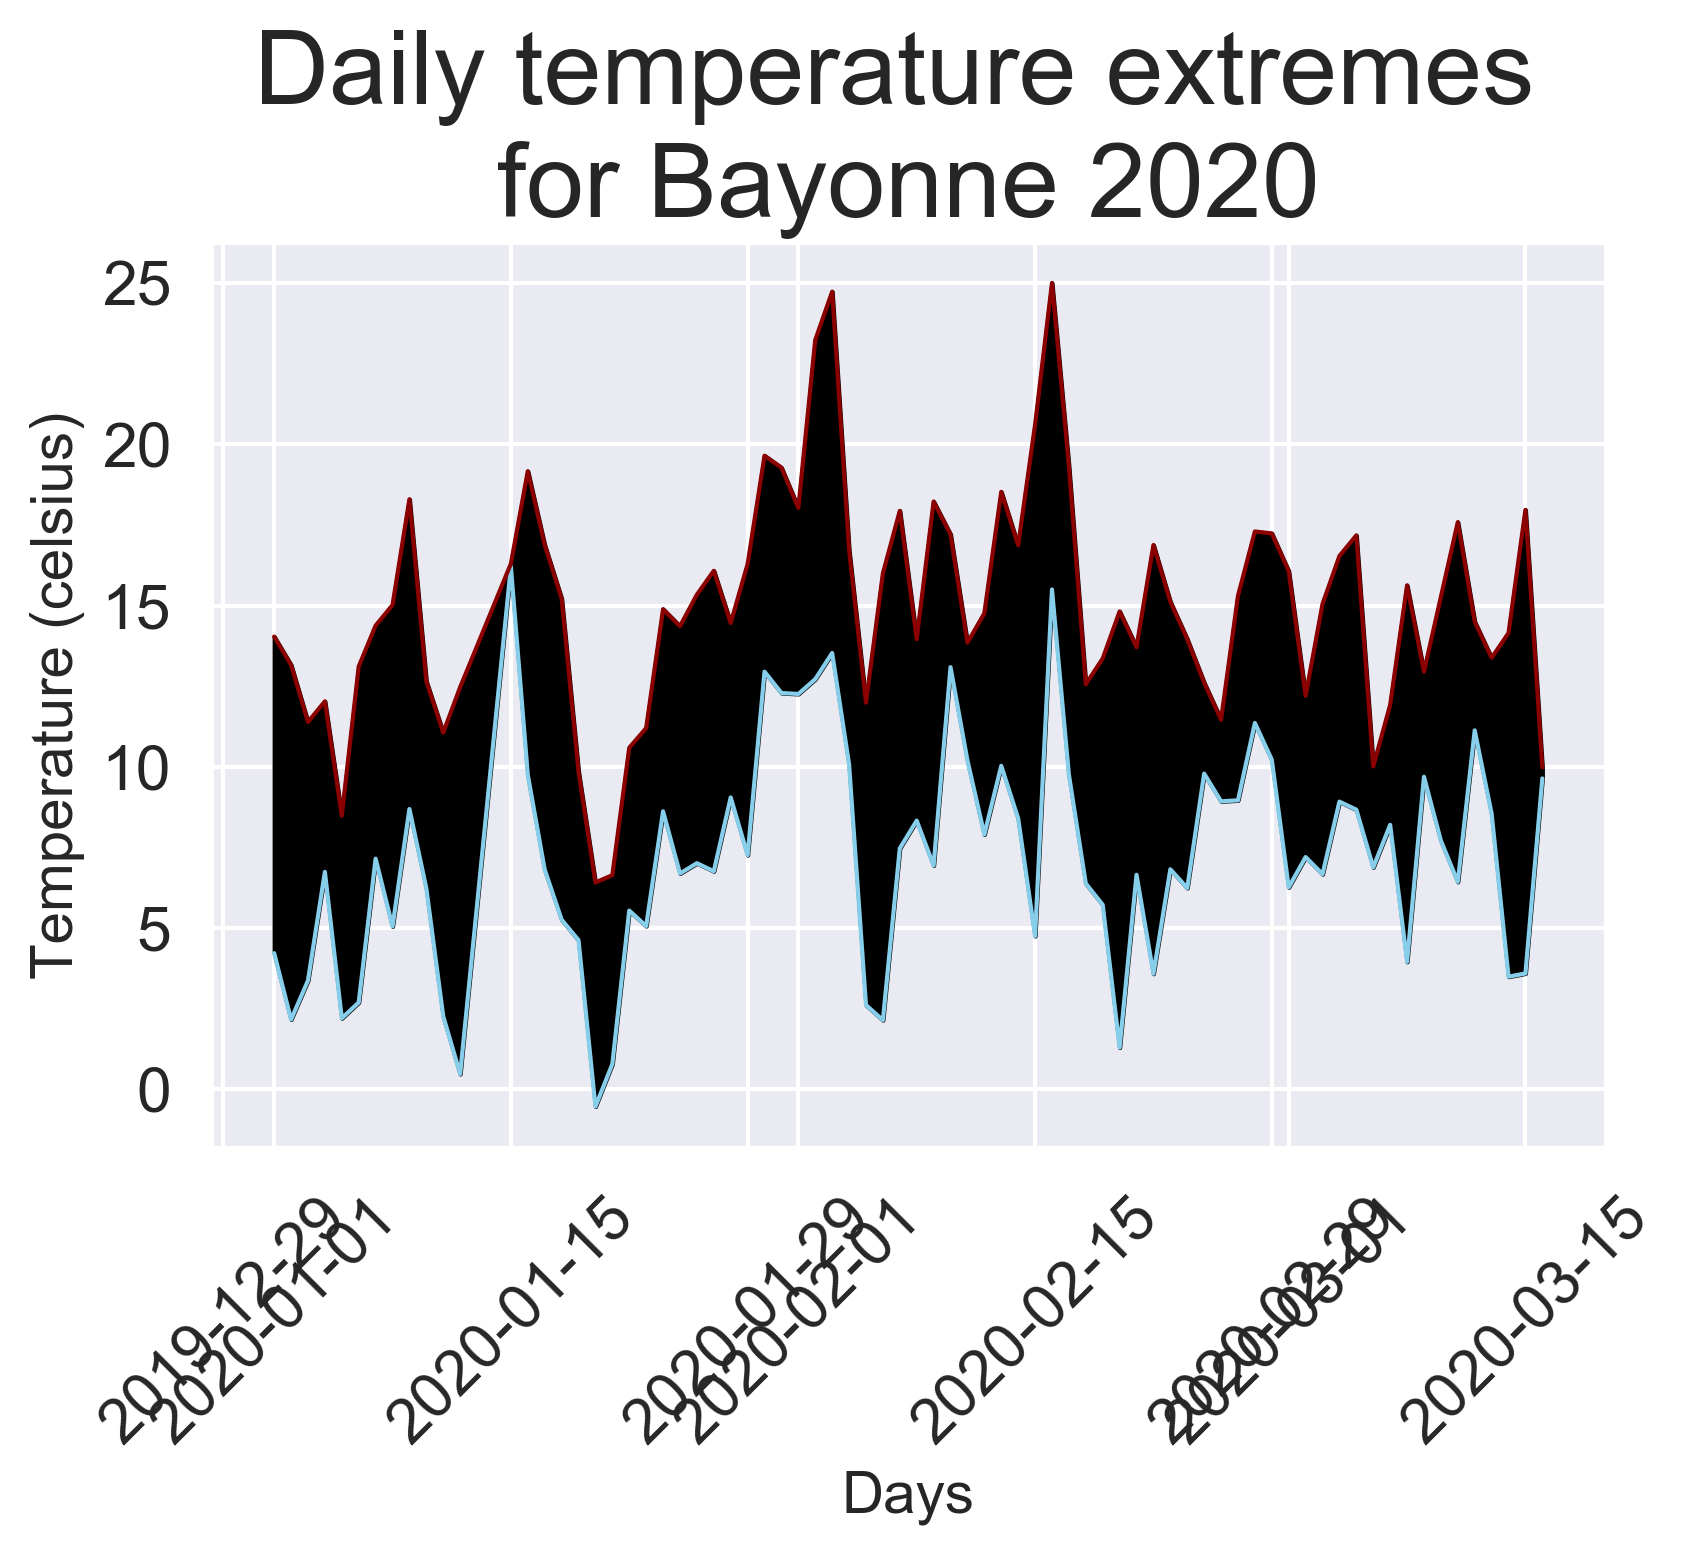
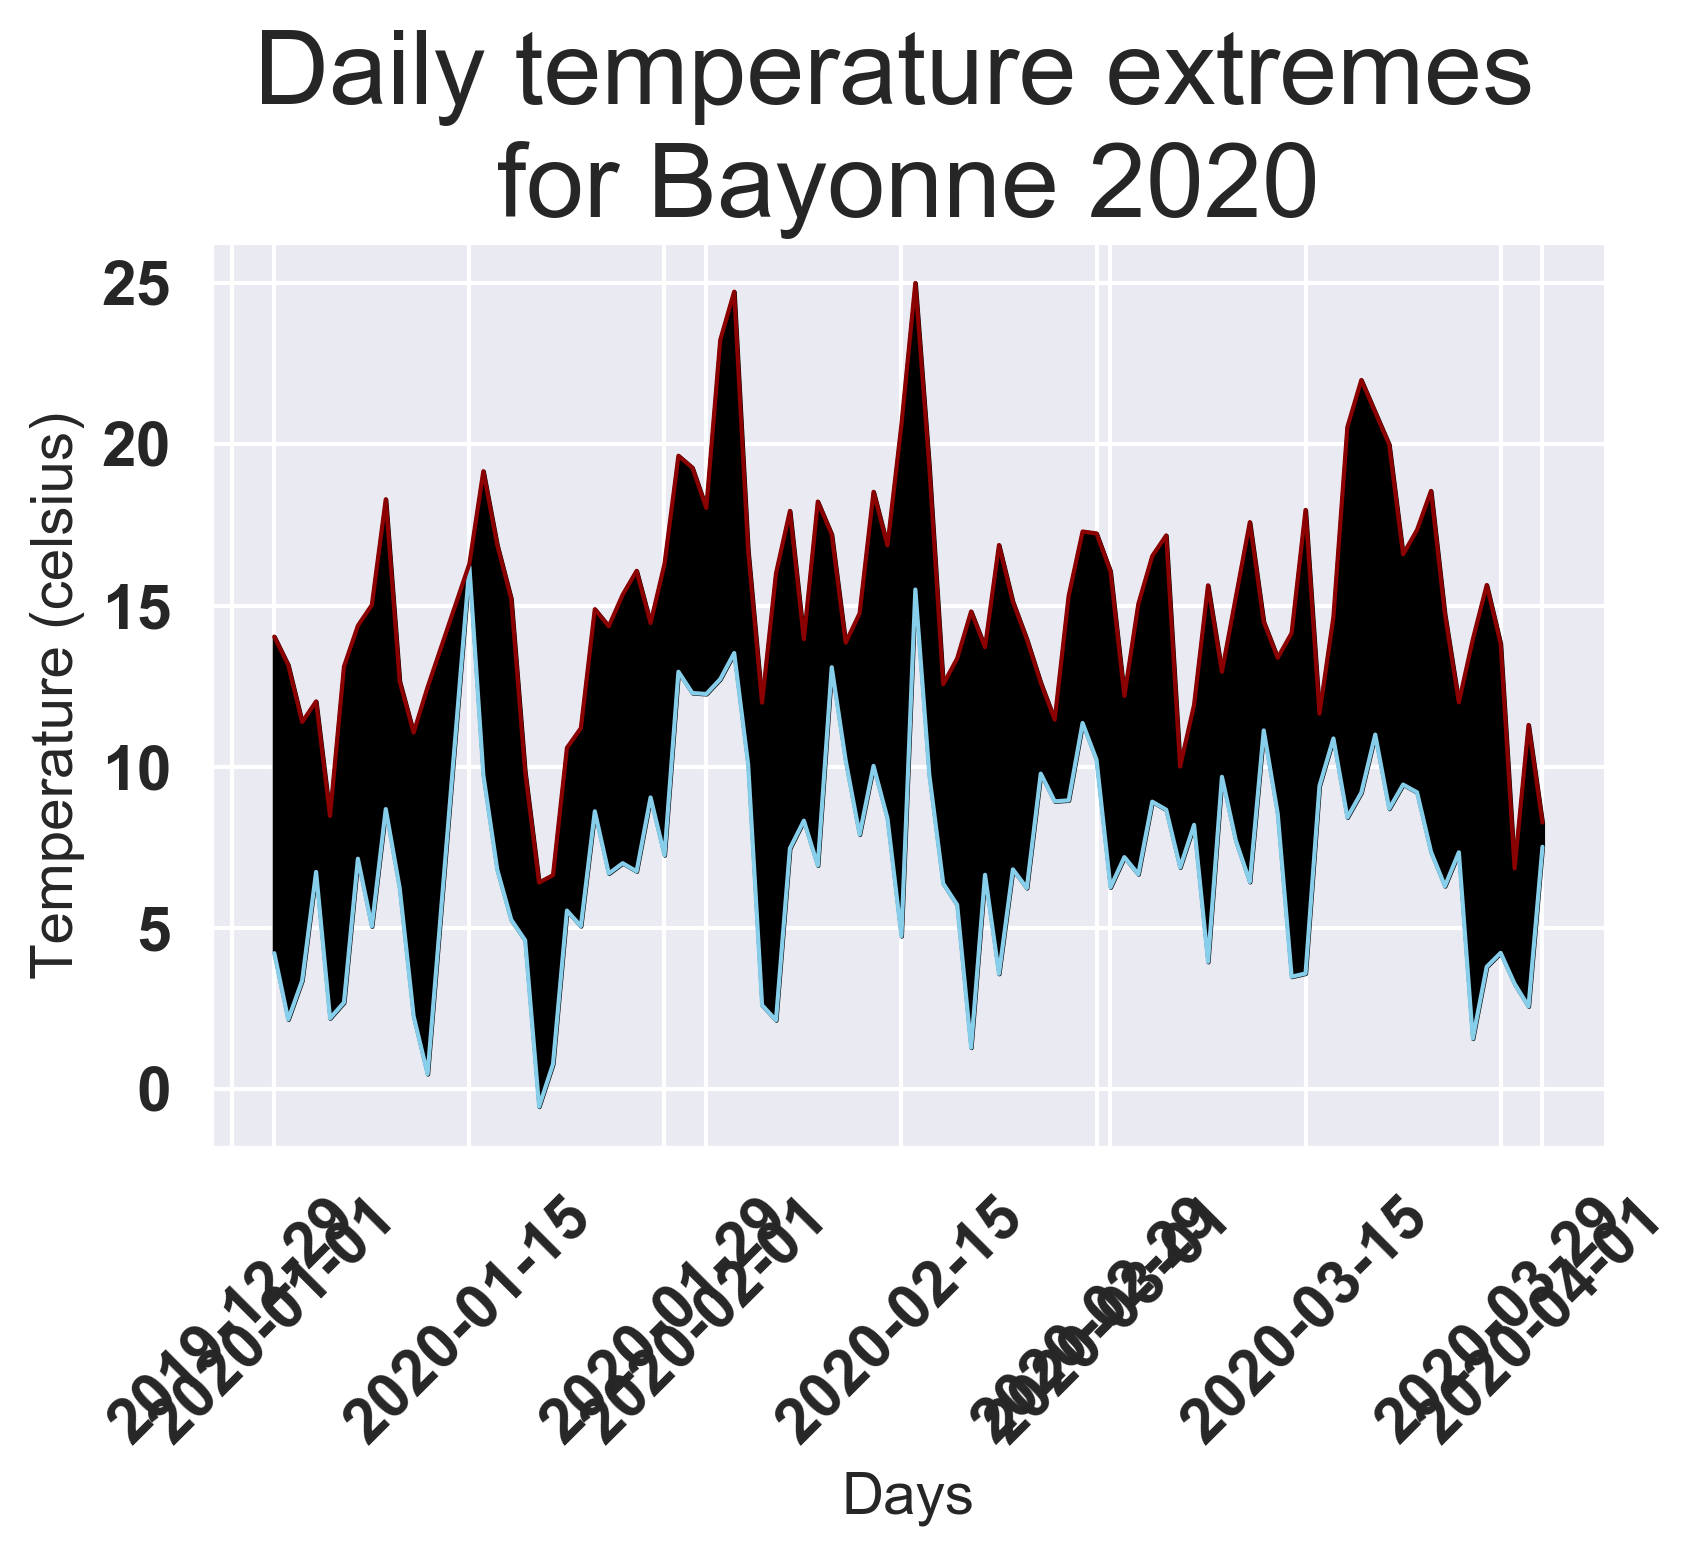
tidy up city name

diff --git a/annual_analysis.py b/annual_analysis.py
@@ -159,11 +159,13 @@ def plot_temperature(df):
 
 
 #===============================================================================
-directory = "D:/James/Documents/SpiderOak Hive/Data/weather/new_system/Bayonne/"
+INPUT_CITY = "Rochecorbon"
+
+directory = f"D:/James/Documents/SpiderOak Hive/Data/weather/new_system/{INPUT_CITY}/"
 directory_ = Path(directory)
 
 old = "D:/James/Documents/SpiderOak Hive/Data/weather/a_older_system/"
-old_bayonne = old+"Bayonne.tab"
+old_bayonne = f"{old}{INPUT_CITY}.tab"
 
 DIRECTORY = "D:\\James\\Documents\\Python Scripts\\"
 CITY_TZS = DIRECTORY+"CityTzs.csv"
